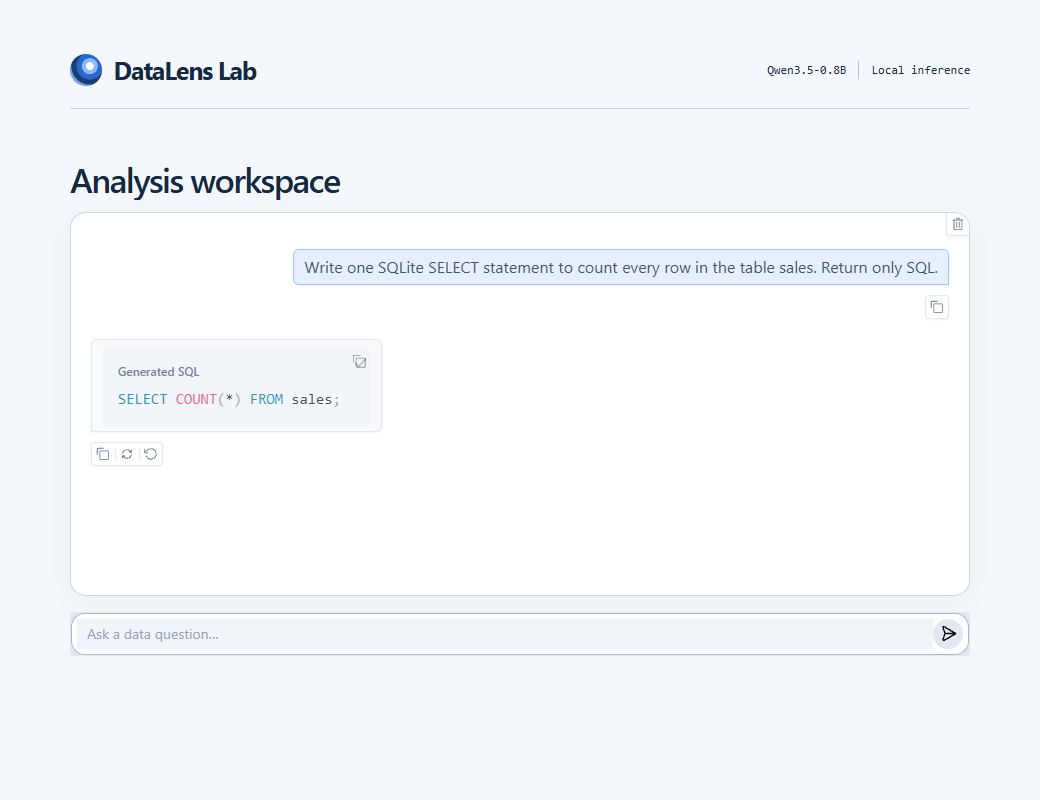
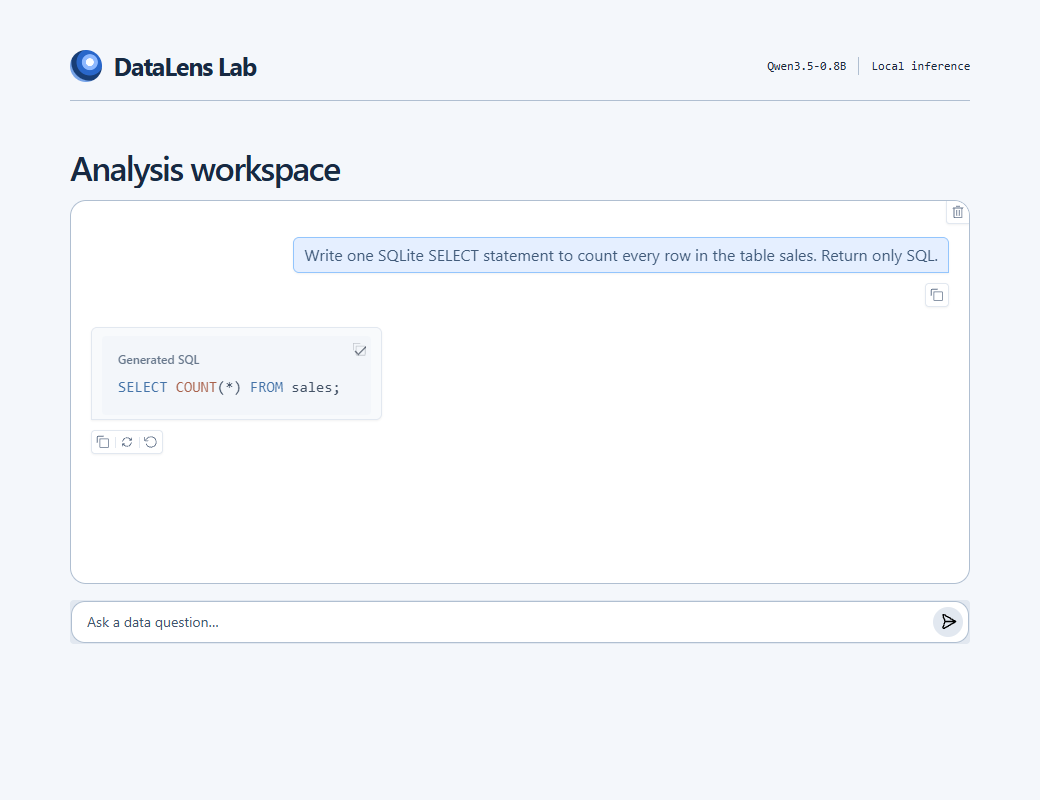
Fix chat contrast across themes and exercise six real browser configurations

diff --git a/demo.css b/demo.css
@@ -1,42 +1,67 @@
-.gradio-container { max-width: 1040px !important; margin: auto; padding: 0 32px 28px !important; }
-body, .gradio-container { background: #f4f7fb; color: #172942; }
-.lab-header { display: flex; justify-content: space-between; align-items: center; padding: 28px 0 22px; border-bottom: 1px solid #c9d4e0; gap: 12px; }
+body {
+  --lab-page: #f4f7fb;
+  --lab-panel: #ffffff;
+  --lab-ink: #172942;
+  --lab-muted: #42566f;
+  --lab-line: #b0bfd1;
+  --lab-question: #e5efff;
+  --lab-question-ink: #183659;
+  --lab-code: #f1f5fa;
+  --lab-keyword: #165193;
+  --lab-function: #953c21;
+  --lab-focus: #2467c0;
+}
+body.dark {
+  --lab-page: #182536;
+  --lab-panel: #111d2e;
+  --lab-ink: #edf3fb;
+  --lab-muted: #becce0;
+  --lab-line: #72849c;
+  --lab-question: #244365;
+  --lab-question-ink: #f4f8ff;
+  --lab-code: #1c2c41;
+  --lab-keyword: #c5a5ff;
+  --lab-function: #87d5ff;
+  --lab-focus: #92bdff;
+}
+body, .gradio-container { background: var(--lab-page); color: var(--lab-ink); }
+.gradio-container {
+  width: min(100vw, 1040px) !important; max-width: 1040px !important; min-width: 0 !important;
+  box-sizing: border-box !important; margin: auto; padding: 0 clamp(10px, 2vw, 28px) 24px !important;
+}
+.gradio-container .main, .gradio-container .contain { min-width: 0; box-sizing: border-box; }
+.lab-header { display: flex; justify-content: space-between; align-items: center; padding: 24px 0 18px; border-bottom: 1px solid var(--lab-line); gap: 12px; }
 .lab-brand, .lab-model { display: flex; align-items: center; gap: 12px; }
-.lab-brand h1 { font: 650 25px/1.1 "Segoe UI", sans-serif; color: #172942; letter-spacing: -.045em; margin: 0; }
+.lab-brand h1 { font: 650 25px/1.1 "Segoe UI", sans-serif; color: var(--lab-ink); letter-spacing: -.045em; margin: 0; }
 .lab-mark { display: inline-block; width: 32px; height: 32px; background: radial-gradient(circle at 62% 38%, #fafcff 0 13%, #8db8ff 15% 27%, #2967ca 30% 46%, #183e76 49% 64%, #78a5e9 68% 76%, #264f89 82%); border-radius: 50%; }
-.lab-model { font: 12px/1.5 Consolas, monospace; color: #42566f; }
-.lab-model span + span { border-left: 1px solid #b7c3d3; padding-left: 12px; }
-#lab-workspace { margin: 24px auto 0; max-width: 900px; width: 100%; min-width: 0; gap: 12px; }
-#lab-heading h2 { font: 600 clamp(24px, 3vw, 34px)/1.2 "Segoe UI", sans-serif; letter-spacing: -.045em; color: #172942; margin: 0 0 5px; }
-#lab-chat { border: 1px solid #cbd7e4; border-radius: 16px; background: white; box-shadow: 0 6px 24px #21365409; }
-#lab-chat .lab-welcome { color: #243f65; font-size: clamp(20px, 3vw, 28px); letter-spacing: -.035em; }
+.lab-model { font: 12px/1.5 Consolas, monospace; color: var(--lab-muted); }
+.lab-model span + span { border-left: 1px solid var(--lab-line); padding-left: 12px; }
+#lab-workspace { margin: 20px auto 0; max-width: 900px; width: 100%; min-width: 0; gap: 12px; }
+#lab-heading h2 { font: 600 clamp(24px, 3vw, 34px)/1.2 "Segoe UI", sans-serif; letter-spacing: -.045em; color: var(--lab-ink); margin: 0 0 5px; }
+#lab-chat { border: 1px solid var(--lab-line); border-radius: 16px; background: var(--lab-panel); }
+#lab-chat .lab-welcome { color: var(--lab-ink); font-size: clamp(20px, 3vw, 28px); letter-spacing: -.035em; }
 #lab-chat .message { overflow-wrap: anywhere; min-width: 0; max-width: 100%; }
-#lab-chat .user .message, #lab-chat .message.user { background: #e5efff; color: #183659; }
+#lab-chat .message.user { background: var(--lab-question); color: var(--lab-question-ink); }
+#lab-chat .message.user .prose, #lab-chat .message.user p { color: var(--lab-question-ink); }
 #lab-chat pre { max-width: 100%; overflow-x: auto; white-space: pre; }
-#lab-input { border: 1px solid #aabbd0; border-radius: 14px; background: white; padding: 5px; }
-#lab-input:focus-within { outline: 2px solid #367ad3; outline-offset: 2px; }
-.dark .gradio-container, body.dark { background: #182536; color: #e6edf7; }
-.dark #lab-chat, .dark #lab-input { background: #202f42; border-color: #475e79; }
-.dark .lab-brand h1, .dark #lab-heading h2, .dark #lab-chat .lab-welcome, .dark .lab-model { color: #e6edf7; }
-@media (max-width: 600px) {
-  .gradio-container { padding: 0 12px 16px !important; }
-  .lab-header { padding: 16px 0; }
+#lab-chat pre:has(> .language-sql) { background: var(--lab-code); color: var(--lab-ink); padding: 16px 30px 16px 16px; }
+#lab-chat pre:has(> .language-sql)::before { content: "Generated SQL"; display: block; padding-bottom: 10px; color: var(--lab-muted); font: 600 12px/1.2 "Segoe UI", sans-serif; }
+#lab-chat pre code { font-size: 15px; line-height: 1.55; }
+#lab-chat code.language-sql, #lab-chat .language-sql .token { background: transparent; color: var(--lab-ink); }
+#lab-chat .language-sql .token.keyword { color: var(--lab-keyword); }
+#lab-chat .language-sql .token.function { color: var(--lab-function); }
+#lab-input { border: 1px solid var(--lab-line); border-radius: 14px; background: var(--lab-panel); padding: 5px; }
+#lab-input textarea { background: var(--lab-panel); color: var(--lab-ink); }
+#lab-input textarea::placeholder { color: var(--lab-muted); opacity: 1; }
+#lab-input:focus-within { outline: 2px solid var(--lab-focus); outline-offset: 2px; }
+@media (max-width: 600px), (max-height: 600px) {
+  .lab-header { padding: 12px 0; }
   .lab-brand h1 { font-size: 20px; }
   .lab-model { flex-direction: column; align-items: flex-end; gap: 0; font-size: 11px; }
   .lab-model span + span { border: 0; padding: 0; }
-  #lab-workspace { margin-top: 16px; }
+  #lab-workspace { margin-top: 10px; }
 }
-#lab-chat pre:has(> .language-sql)::before {
-    content: "Generated SQL"; display: block; padding-bottom: 10px;
-    color: #496181; font: 600 12px/1.2 "Segoe UI", sans-serif;
+/* Keep the active stream from restoring a turn that was just cleared or retried. */
+#lab-workspace:has([data-testid="stop-button"]) #lab-chat button:where([aria-label="Clear"], [aria-label="Retry"], [aria-label="Undo"]) {
+  visibility: hidden;
 }
-#lab-chat pre:has(> .language-sql) { padding: 16px 30px 16px 16px; }
-#lab-chat pre code { font-size: 15px; line-height: 1.55; }
-.dark #lab-chat pre:has(> .language-sql)::before { color: #bfd1ea; }
-.gradio-container {
-    width: min(100vw, 1040px) !important;
-    min-width: 0 !important;
-    box-sizing: border-box !important;
-    padding-inline: clamp(10px, 2vw, 28px) !important;
-}
-.gradio-container .main, .gradio-container .contain { min-width: 0; box-sizing: border-box; }

diff --git a/tests/verify_ui.py b/tests/verify_ui.py
@@ -13,9 +13,42 @@ def check_width(page, width):
     assert page.evaluate("document.documentElement.scrollWidth") <= width
 
 
-def check_chat(browser, url, width, capture):
+def text_contrast(locator, pseudo=None):
+    # Composite translucent ancestor backgrounds in paint order.
+    return locator.evaluate("""(node, pseudo) => {
+        function rgba(value) { return value.match(/[\\d.]+/g).map(Number); }
+        function blend(top, bottom) {
+            const a = top[3] ?? 1;
+            return bottom.map((c, i) => a * top[i] + (1 - a) * c);
+        }
+        function luminance(rgb) {
+            const [r, g, b] = rgb.map(v => {
+                const s = v / 255;
+                return s <= 0.04045 ? s / 12.92 : ((s + 0.055) / 1.055) ** 2.4;
+            });
+            return .2126*r + .7152*g + .0722*b;
+        }
+        let bg = [255,255,255];
+        const chain = [];
+        for (let el=node; el; el=el.parentElement) chain.unshift(el);
+        for (const el of chain) bg = blend(rgba(getComputedStyle(el).backgroundColor), bg);
+        const fg = blend(rgba(getComputedStyle(node, pseudo).color), bg);
+        const values = [luminance(fg), luminance(bg)].sort((a,b)=>b-a);
+        return (values[0]+.05)/(values[1]+.05);
+    }""", pseudo)
+
+
+def check_contrast(page, items):
+    for selector, pseudo in items:
+        item = page.locator(selector).first
+        expect(item).to_be_visible()
+        ratio = text_contrast(item, pseudo)
+        assert ratio >= 4.5, f"{selector} {pseudo or ''}: {ratio:.2f}:1"
+
+
+def check_chat(browser, url, width, height, theme, capture):
     context = browser.new_context(
-        viewport={"width": width, "height": 800}, locale="en-US", color_scheme="light",
+        viewport={"width": width, "height": height}, locale="en-US", color_scheme=theme,
         permissions=["clipboard-read", "clipboard-write"],
     )
     page = context.new_page()
@@ -26,6 +59,9 @@ def check_chat(browser, url, width, capture):
         box = page.get_by_role("textbox").last
         expect(starter).to_be_in_viewport()
         expect(box).to_be_in_viewport()
+        assert page.locator("body").evaluate("e => e.classList.contains('dark')") == (theme == "dark")
+        check_contrast(page, [("#lab-heading h2", None), (".lab-brand h1", None),
+                              (".lab-model span", None), ("#lab-input textarea", "::placeholder")])
         starter.click()
         code = page.locator("#lab-chat code.language-sql")
         expect(code).to_contain_text("FROM sales", timeout=120000)
@@ -35,15 +71,18 @@ def check_chat(browser, url, width, capture):
         expect(page.get_by_text(SQL_PROMPT, exact=True)).to_have_count(1)
         expect(starter).to_be_hidden()
         check_width(page, width)
+        check_contrast(page, [("#lab-chat .message.user p", None), ("pre:has(code.language-sql)", "::before"),
+                              ("code.language-sql", None), ("code .keyword", None), ("code .function", None)])
         copy = page.locator('#lab-chat button[title="copy"]')
         copy.click()
         copied = page.evaluate("navigator.clipboard.readText()")
         assert copied.strip() == code.inner_text().strip()
         count_rows(copied)
-        if capture and width == 1280:
+        if capture and width == 1280 and theme == "light":
             page.mouse.move(0, 0)
             page.locator(".gradio-container").first.screenshot(path=capture)
         retry.click()
+        page.get_by_test_id("stop-button").wait_for()
         expect(code).to_contain_text("FROM sales", timeout=120000)
         retry.wait_for()
         expect(page.get_by_test_id("stop-button")).to_be_hidden(timeout=120000)
@@ -72,7 +111,7 @@ def check_chat(browser, url, width, capture):
         expect(page.get_by_test_id("stop-button")).to_be_hidden(timeout=120000)
         expect(page.get_by_text(followup, exact=True)).to_have_count(1)
         check_width(page, width)
-        print(f"PASS {width}px, copied SQL returned 3. Conversation:", page.locator("#lab-chat").inner_text(), flush=True)
+        print(f"PASS {width}x{height} {theme}, copied SQL returned 3. Conversation:", page.locator("#lab-chat").inner_text(), flush=True)
     finally:
         context.close()
 
@@ -84,6 +123,7 @@ if __name__ == "__main__":
     args = parser.parse_args()
     with sync_playwright() as pw:
         browser = pw.chromium.launch(channel="msedge")
-        for width in (1280, 390):
-            check_chat(browser, args.url, width, args.capture)
+        for theme in ("dark", "light"):
+            for width, height in ((680, 548), (390, 800), (1280, 800)):
+                check_chat(browser, args.url, width, height, theme, args.capture)
         browser.close()
